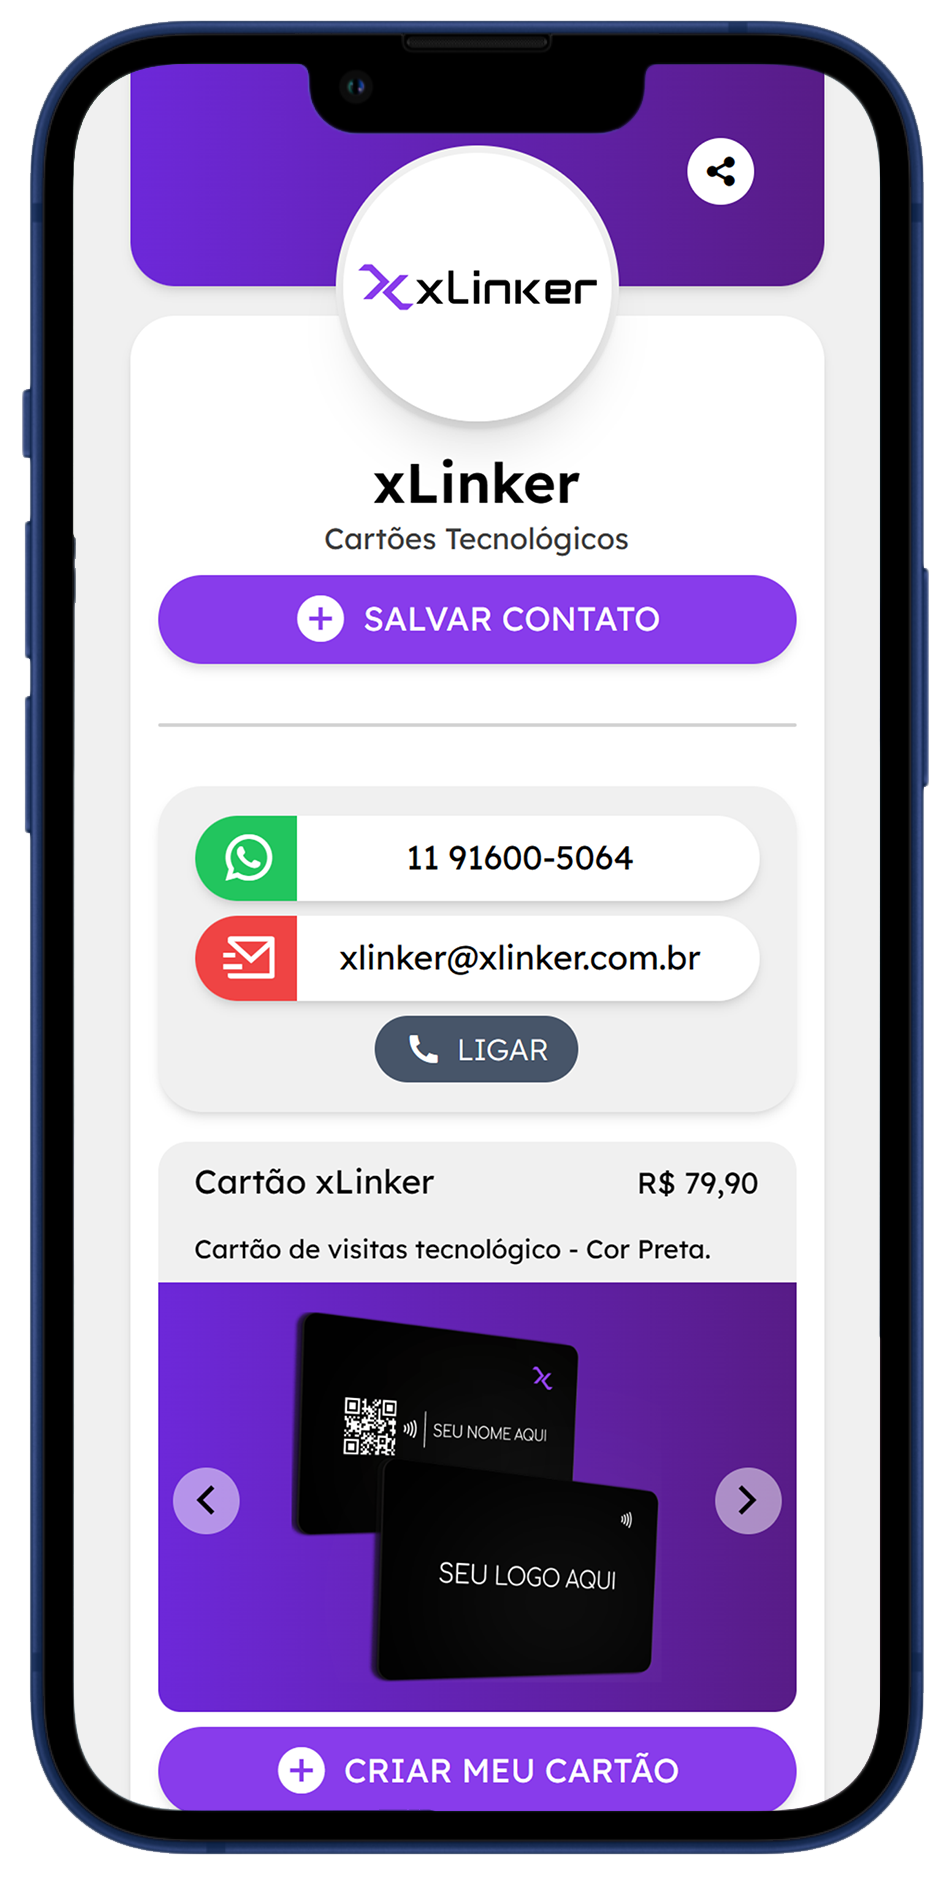
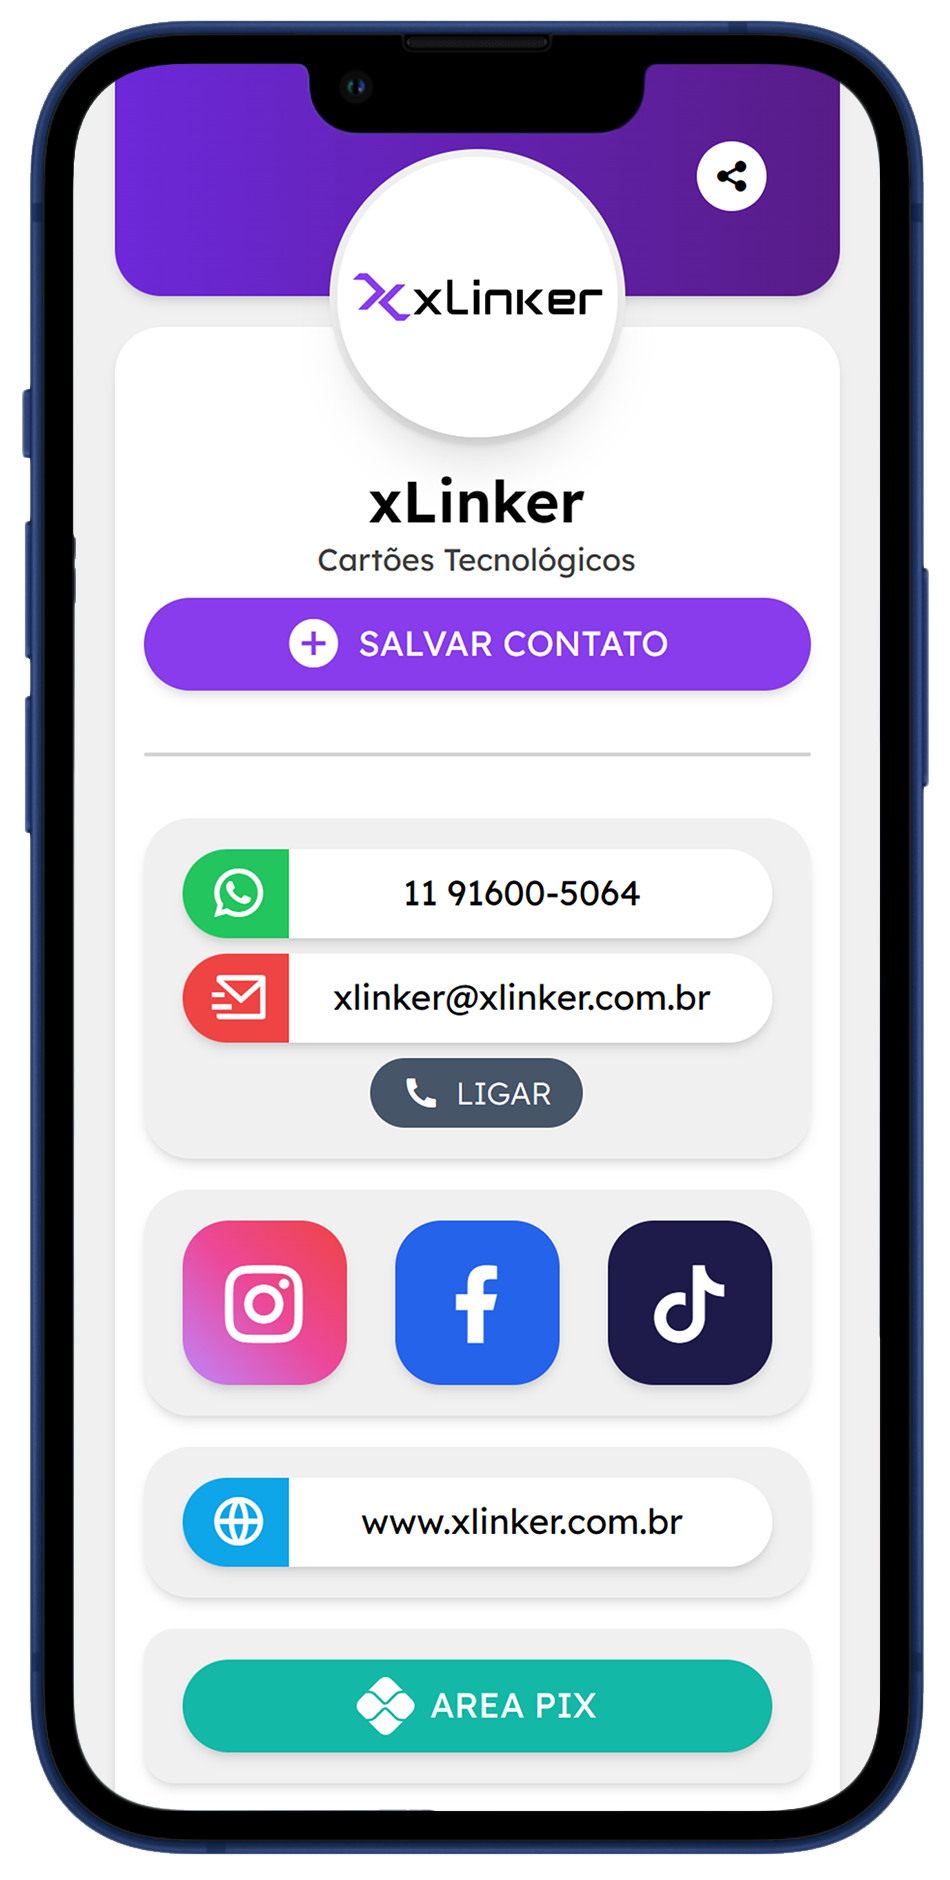
hero image animation

Changed region(s): [[0.1526, 0.4319, 0.8547, 0.9872], [0.1221, 0.0309, 0.8853, 0.3702], [0.7326, 0.0617, 0.8242, 0.1234]]

diff --git a/src/css/output.css b/src/css/output.css
@@ -636,6 +636,10 @@ video {
   right: 1.5rem;
 }
 
+.right-\[22\.5px\]{
+  right: 22.5px;
+}
+
 .top-0{
   top: 0px;
 }
@@ -648,12 +652,24 @@ video {
   top: 2rem;
 }
 
+.top-\[3px\]{
+  top: 3px;
+}
+
 .top-\[55px\]{
   top: 55px;
 }
 
 .z-10{
   z-index: 10;
+}
+
+.z-20{
+  z-index: 20;
+}
+
+.z-30{
+  z-index: 30;
 }
 
 .z-40{
@@ -934,6 +950,10 @@ video {
   max-height: 144px;
 }
 
+.max-h-\[168px\]{
+  max-height: 168px;
+}
+
 .max-h-\[442px\]{
   max-height: 442px;
 }
@@ -952,6 +972,10 @@ video {
 
 .w-8{
   width: 2rem;
+}
+
+.w-\[104px\]{
+  width: 104px;
 }
 
 .w-\[10px\]{
@@ -988,6 +1012,10 @@ video {
 
 .w-\[170px\]{
   width: 170px;
+}
+
+.w-\[180px\]{
+  width: 180px;
 }
 
 .w-\[200px\]{
@@ -1261,6 +1289,10 @@ video {
 
 .overflow-x-hidden{
   overflow-x: hidden;
+}
+
+.overflow-y-hidden{
+  overflow-y: hidden;
 }
 
 .scroll-smooth{
@@ -2016,6 +2048,73 @@ video {
   box-shadow: 0 0 0 3px #ffffff, 0 0 0 5px #000000;
 }
 
+@keyframes rotate {
+  0% {
+    transform: rotate(-10deg) translateY(0px);
+  }
+
+  20% {
+    transform: rotate(-10deg) translateY(0px);
+  }
+
+  40% {
+    transform: rotate(0deg) translateY(30px);
+  }
+
+  80% {
+    transform: rotate(0deg) translateY(30px);
+  }
+
+  100% {
+    transform: rotate(-10deg) translateY(0px);
+  }
+}
+
+@keyframes show {
+  0% {
+    opacity: 0;
+  }
+
+  30% {
+    opacity: 0;
+  }
+
+  40% {
+    opacity: 1;
+  }
+
+  80% {
+    opacity: 1;
+    transform: translateY(0px);
+  }
+
+  100% {
+    transform: translateY(-220px);
+  }
+}
+
+@keyframes upper {
+  0% {
+    transform: translateY(10px);
+  }
+
+  20% {
+    transform: translateY(10px);
+  }
+
+  40% {
+    transform: translateY(0);
+  }
+
+  80% {
+    transform: translateY(0);
+  }
+
+  100% {
+    transform: translateY(10px);
+  }
+}
+
 .hover\:-translate-y-1:hover{
   --tw-translate-y: -0.25rem;
   transform: translate(var(--tw-translate-x), var(--tw-translate-y)) rotate(var(--tw-rotate)) skewX(var(--tw-skew-x)) skewY(var(--tw-skew-y)) scaleX(var(--tw-scale-x)) scaleY(var(--tw-scale-y));
@@ -2147,16 +2246,8 @@ video {
     min-width: 270px;
   }
 
-  .md\:min-w-\[280px\]{
-    min-width: 280px;
-  }
-
   .md\:max-w-\[1160px\]{
     max-width: 1160px;
-  }
-
-  .md\:max-w-\[280px\]{
-    max-width: 280px;
   }
 
   .md\:max-w-\[450px\]{
@@ -2310,16 +2401,8 @@ video {
     min-width: 300px;
   }
 
-  .xl\:min-w-\[350px\]{
-    min-width: 350px;
-  }
-
   .xl\:max-w-\[320px\]{
     max-width: 320px;
-  }
-
-  .xl\:max-w-\[350px\]{
-    max-width: 350px;
   }
 
   .xl\:max-w-\[600px\]{
@@ -2328,6 +2411,12 @@ video {
 
   .xl\:max-w-\[650px\]{
     max-width: 650px;
+  }
+
+  .xl\:scale-125{
+    --tw-scale-x: 1.25;
+    --tw-scale-y: 1.25;
+    transform: translate(var(--tw-translate-x), var(--tw-translate-y)) rotate(var(--tw-rotate)) skewX(var(--tw-skew-x)) skewY(var(--tw-skew-y)) scaleX(var(--tw-scale-x)) scaleY(var(--tw-scale-y));
   }
 
   .xl\:flex-row-reverse{

diff --git a/000001/index.html b/000001/index.html
@@ -119,7 +119,7 @@
                 <a class="flex items-center mt-2 bg-slate-600 py-1 px-4 rounded-full text-white font-light" href="tel:+5511916005064"><i class="ri-phone-fill text-xl mr-2"></i>LIGAR</a>
             </div>
             
-            <div class="grid justify-center mt-4">
+            <!-- <div class="grid justify-center mt-4">
                 <div id="slider-wrapper" class="flex w-[345px] mx-auto relative" style="scrollbar-width: none; -ms-overflow-style: none;">
                     <button id="prev" class="ri-arrow-left-s-line absolute text-3xl w-[36px] h-[36px] left-2 bottom-24 rounded-full bg-[#ffffff7f]"></button>
                     <div id="slider" class="flex overflow-x-auto snap-mandatory snap-x scroll-smooth gap-3" style="scrollbar-width: none; -ms-overflow-style: none;">
@@ -156,7 +156,7 @@
             </div>
             
             <a class="bg-000001 text-white w-[345px] h-[48px] py-1 flex items-center justify-center mt-2 rounded-full text-lg shadow-md" href="https://www.xlinker.com.br/card/"><i class="ri-add-circle-fill text-3xl mr-2"></i>CRIAR MEU CARTÃO</a>
-        
+         -->
             <div class="mt-4 flex justify-between w-[345px] bg-[#f0f0f0] px-5 py-4 rounded-3xl shadow-md gap-[25px]">
                 <a class="bg-gradient-to-tr from-purple-400 via-pink-500 to-red-500 w-[85px] h-[85px] grid place-items-center rounded-3xl shadow-md" href="https://www.instagram.com/xlinker_/" target="_blank">
                     <i class="ri-instagram-line text-5xl text-white"></i>

diff --git a/index.html b/index.html
@@ -78,9 +78,15 @@
     <div class="grid place-items-center pt-32 xl:pt-40 pb-10 xl:pb-20">
         <div class="grid place-items-center">
             <div class="grid justify-center xl:w-[1200px] px-5 md:justify-between md:flex md:flex-row-reverse">
-                <div class="grid place-items-center px-5 mx-auto">
-                    <img class="w-[250px] md:min-w-[280px] md:max-w-[280px] xl:min-w-[350px] xl:max-w-[350px]" src="src/img/hero-img.png" alt="">
-                </div>
+                <div class="grid place-items-center px-5 mx-auto relative">
+                    <img class="w-[180px] z-40" src="/src/img/hand-card.png" style="animation: rotate 3s infinite; transform-origin: left top;" alt="">
+
+                    <div class="relative overflow-y-hidden" style="animation: upper 3s infinite;">
+                        <img class="w-[180px] z-30 relative" src="/src/img/hand-phone.png" alt="">
+                        <img class="w-[104px] z-20 absolute top-[3px] right-[22.5px]" style="animation: show 3s infinite;" src="/src/img/profile_phone.png" alt="">
+                        <img class="w-[104px] z-10 absolute top-[3px] right-[22.5px]" src="/src/img/screen-phone.png" alt="">
+                    </div> 
+                </div> 
     
                 <div class="">
                     <div class="mt-8 xl:mt-16 grid ">

diff --git a/src/css/input.css b/src/css/input.css
@@ -9,3 +9,58 @@
 .box-shadow {
     box-shadow: 0 0 0 3px #ffffff, 0 0 0 5px #000000;
 }
+
+@keyframes rotate {
+    0% {
+      transform: rotate(-10deg) translateY(0px);
+    }
+    20% {
+      transform: rotate(-10deg) translateY(0px);
+    }
+    40% {
+      transform: rotate(0deg) translateY(30px);
+    }
+    80% {
+      transform: rotate(0deg) translateY(30px);
+    }
+    100% {
+      transform: rotate(-10deg) translateY(0px);
+    }
+  }
+
+  @keyframes show {
+    0% {
+        opacity: 0;
+    }
+    30% {
+        opacity: 0;
+    }
+    40% {
+        opacity: 1;
+    }
+    80% {
+        opacity: 1;
+        transform: translateY(0px);
+    }
+    100% {
+        transform: translateY(-220px);
+    }
+  }
+
+  @keyframes upper {
+    0% {
+        transform: translateY(10px);
+    }
+    20% {
+        transform: translateY(10px);
+    }
+    40% {
+        transform: translateY(0);
+    }
+    80% {
+        transform: translateY(0);
+    }
+    100% {
+        transform: translateY(10px);
+    }
+  }

diff --git a/src/js/index.js b/src/js/index.js
@@ -197,7 +197,7 @@ const faqAnswer4 = document.getElementById("faqAnswer4");
 
 faq4.addEventListener("click", function () {
   faqAnswer4.classList.toggle("max-h-0");
-  faqAnswer4.classList.toggle("max-h-[168 px]");
+  faqAnswer4.classList.toggle("max-h-[168px]");
   faqAnswer4.classList.toggle("xl:max-h-[120px]");
   faq4.classList.toggle("rotate-[-45deg]");
   faq4.classList.toggle("bg-[#8234E9]");
